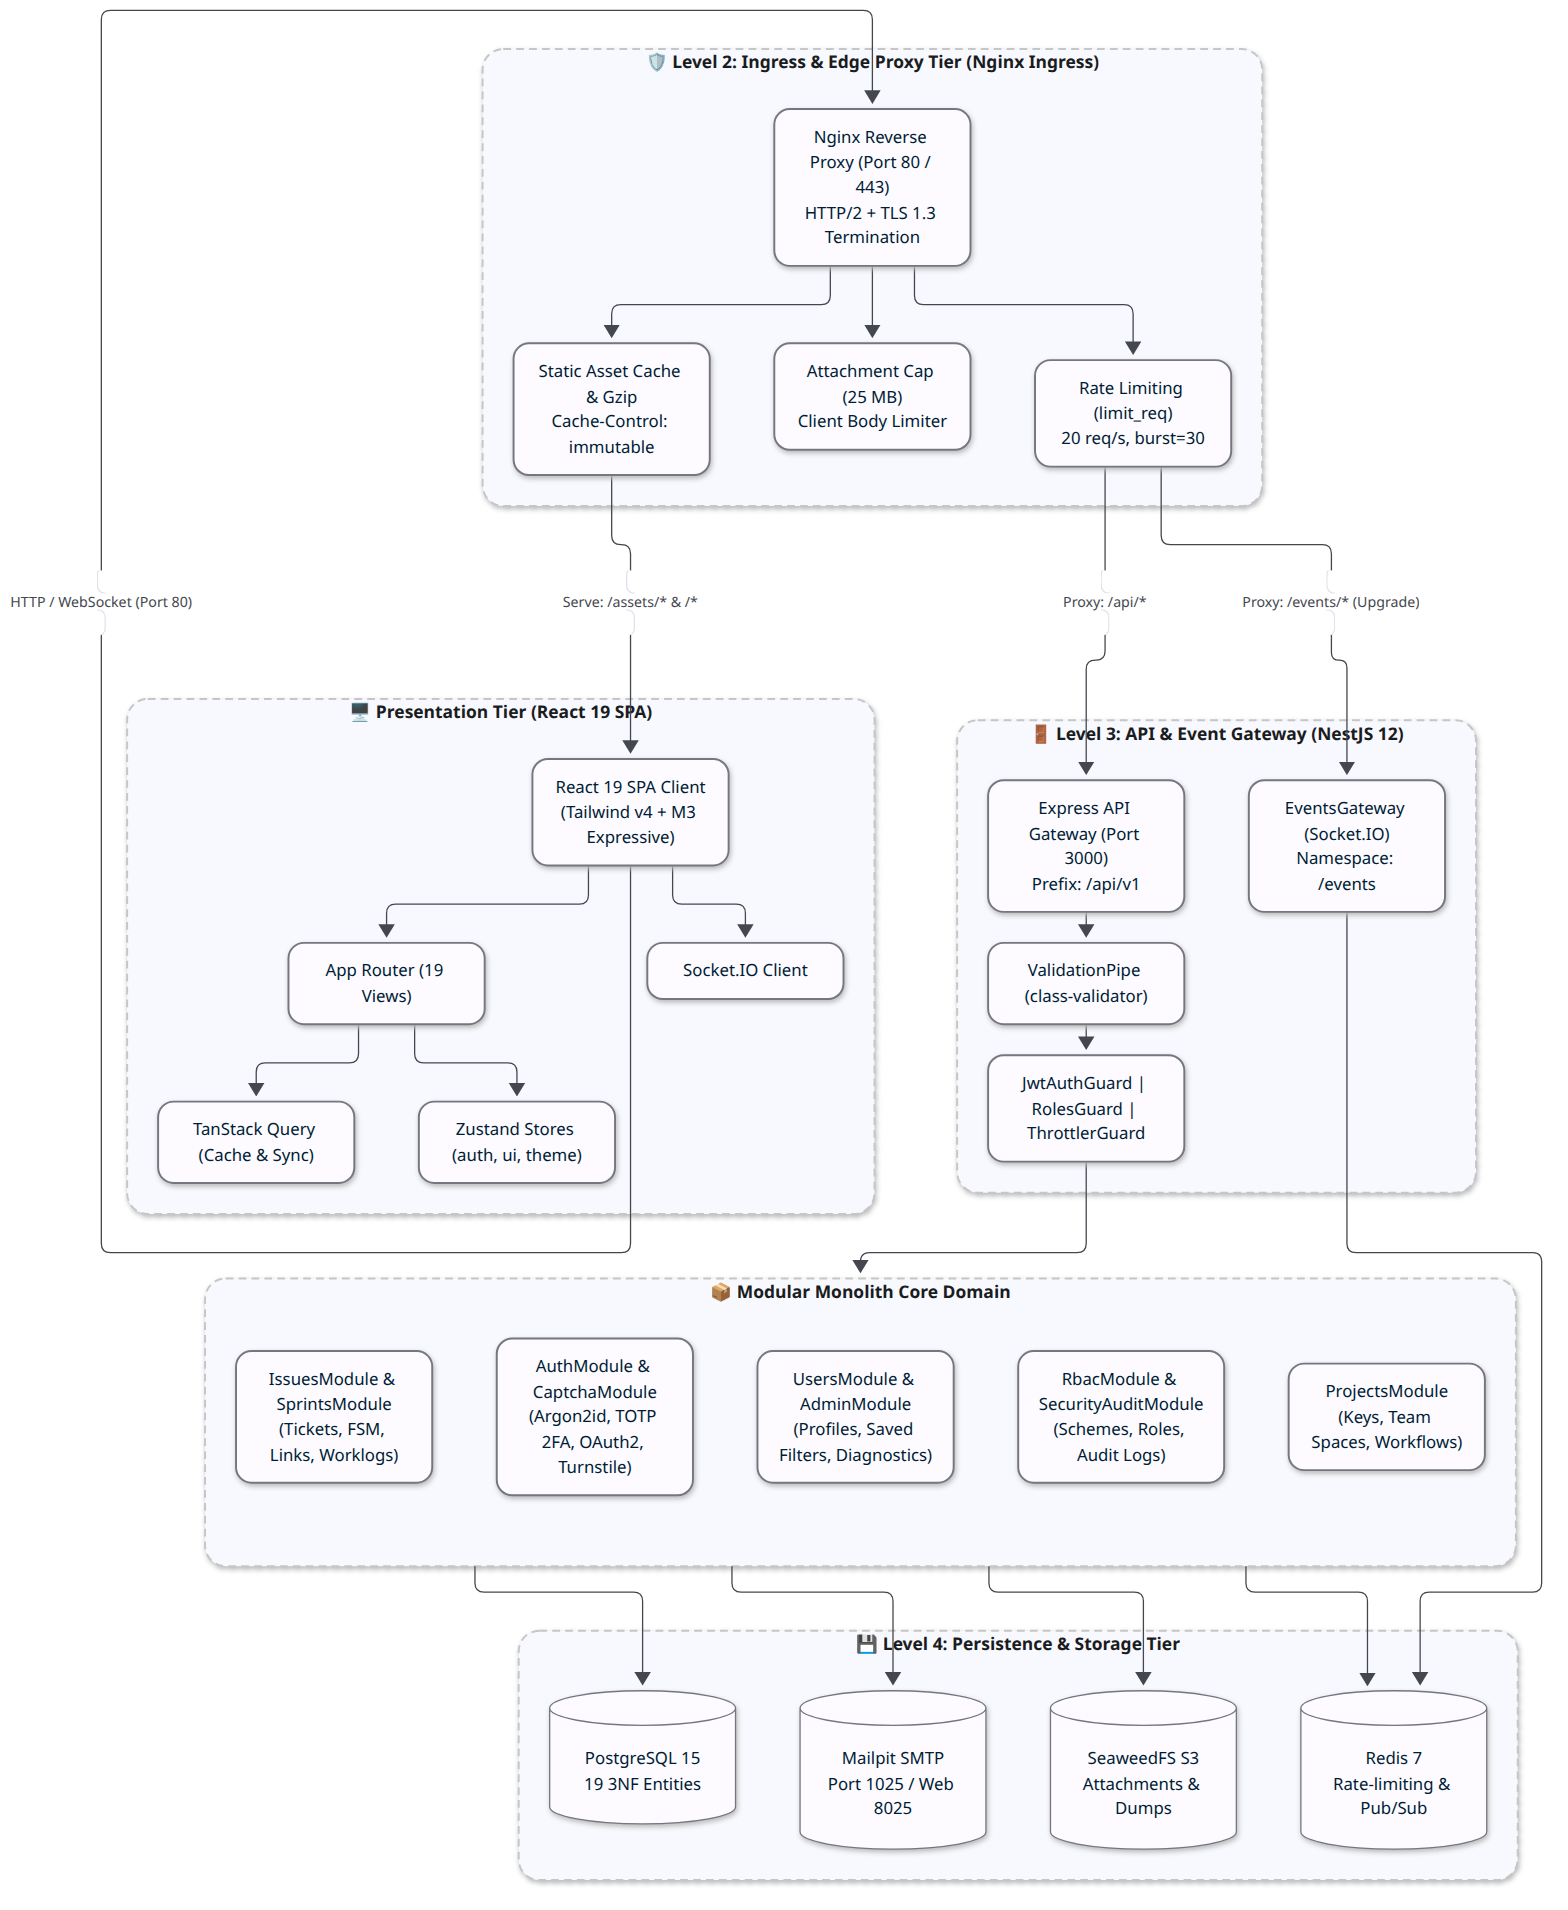
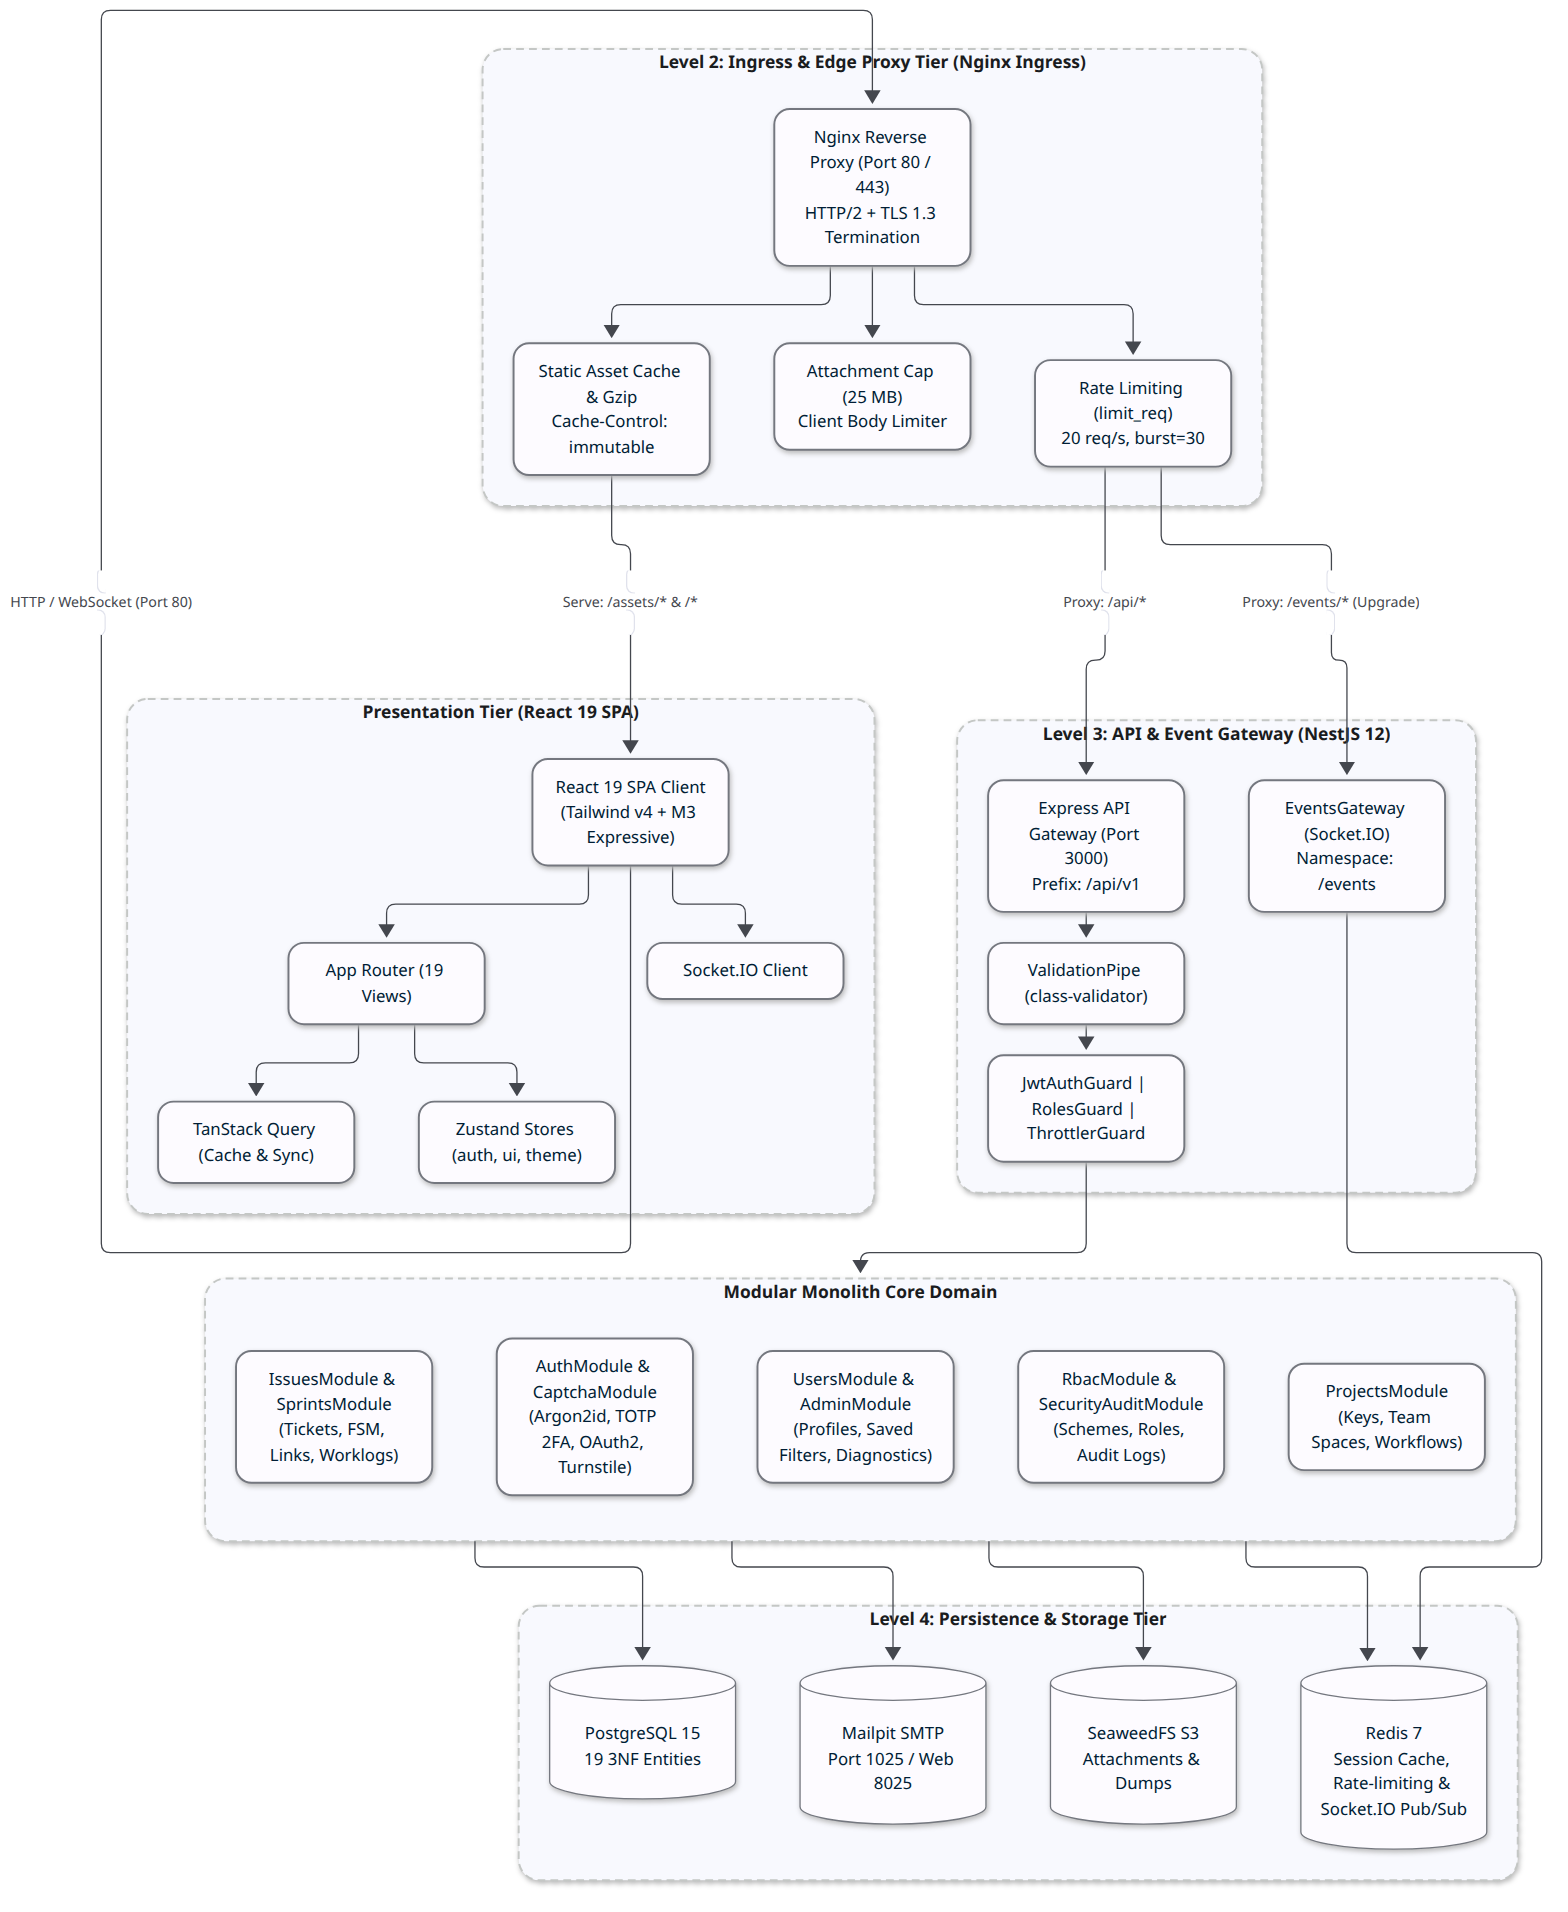
docs: synchronize system architecture and module specifications
Update technical documentation and architecture diagrams to accurately
reflect distributed Redis session caching, sliding-window rate limiting,
single-pass RBAC evaluation, fail-closed permission guard, multi-tenant
workspace isolation, and relational sprint tracking with scoped WebSockets.

diff --git a/documentation/backend/auth.md b/documentation/backend/auth.md
@@ -53,20 +53,26 @@ sequenceDiagram
 ## 2. Key Security Mechanisms
 
 ### Cryptography & Passwords
-* **Argon2id**: Passwords hashed using Argon2id with memory cost 65536 KiB, time cost 3, parallelism 4.
+* **Argon2id**: Passwords hashed using Argon2id with memory cost 19456 KiB (19 MiB), time cost 2, parallelism 1 (per RFC 9106 recommended profile to eliminate Node.js thread pool starvation under high concurrency).
 * **TOTP 2FA (RFC 6238)**: `otplib` generates base32 secret and pairs with authenticator apps (Google Authenticator, Authy).
 * **Cloudflare Turnstile**: Client tokens validated via Cloudflare siteverify endpoint in `CaptchaService`.
 
-### Session Management
+### Session Management & Distributed Redis Cache
 * **Dual-Token Cookie Model**:
-  * `access_token`: Short-lived (15 min) JWT containing `{ sub, email, role }`.
+  * `access_token`: Short-lived (15 min) JWT containing `{ sub, email, role, tokenVersion }`.
   * `refresh_token`: Long-lived (7 days) signed token.
   * Both cookies set with `httpOnly: true`, `SameSite: Lax`, and `secure` in production.
+* **Redis Session Cache (`user:session:${sub}`)**:
+  * `JwtStrategy` caches validated user profiles in Redis with 300s TTL, eliminating redundant PostgreSQL queries on every incoming HTTP/WS request.
+  * Checks `tokenVersion` against session state; purging the cache key and incrementing `tokenVersion` provides instantaneous global session revocation across all API replicas on logout, password change, deactivation, or role change.
 
-### Brute-Force & Lockout Protection
-* Tracks consecutive failed login attempts in `User.failedLoginAttempts`.
-* 5 failed attempts trigger a 15-minute account freeze (`User.lockoutUntil`).
+### Brute-Force & Distributed Rate Limiting
+* **Database Lockout Forensics**: Tracks consecutive failed login attempts in `User.failedLoginAttempts`. 5 failed attempts trigger a 15-minute account freeze (`User.lockoutUntil`).
+* **Redis Sliding-Window Rate Limiter**: `LoginRateLimiterService` enforces distributed IP + email throttling in Redis (`login:failed:${ip}:${email}`) with 15-minute sliding window, returning `429 Too Many Requests` without relying on single-node in-memory state.
 * Every attempt emits an audit record via `SecurityAuditService`.
+
+### Distributed OAuth Exchange Store
+* Single-use OAuth exchange codes are stored in Redis (`oauth:code:${code}`, 300s TTL) by `OAuthCodeStoreService`, enabling horizontally scaled OAuth redirects across multi-instance clusters.
 
 ---
 
@@ -77,18 +83,25 @@ sequenceDiagram
 | `POST` | `/register` | Register new user with password & CAPTCHA | Public |
 | `POST` | `/login` | Authenticate with email & password | Public |
 | `GET` | `/activate` | Verify single-use account activation token | Public |
-| `POST` | `/logout` | Invalidate cookies and end active session | User |
+| `POST` | `/logout` | Invalidate cookies, evict Redis session cache, and end session | User |
 | `POST` | `/forgot-password` | Request password reset token to email | Public |
 | `POST` | `/reset-password` | Reset password using verified token | Public |
 | `POST` | `/2fa/generate` | Generate TOTP secret and QR code URI | User |
 | `POST` | `/2fa/enable` | Confirm TOTP code and enable 2FA | User |
 | `POST` | `/2fa/verify` | Complete 2FA login challenge with temp token | Public |
 | `GET` | `/github` | Initiate GitHub OAuth2 authorization redirect | Public |
-| `GET` | `/github/callback` | OAuth2 callback exchanging code for session | Public |
+| `GET` | `/github/callback` | GitHub OAuth2 callback | Public |
+| `GET` | `/google` | Initiate Google OAuth2 authorization redirect | Public |
+| `GET` | `/google/callback` | Google OAuth2 callback | Public |
+| `POST` | `/oauth/exchange` | Exchange one-time Redis OAuth code for session cookies | Public |
 
 ---
 
 ## 4. Key Source Files
 * Controller: [`auth.controller.ts`](../../backend/src/modules/auth/auth.controller.ts)
 * Service: [`auth.service.ts`](../../backend/src/modules/auth/auth.service.ts)
+* JWT Strategy: [`jwt.strategy.ts`](../../backend/src/modules/auth/jwt.strategy.ts)
+* Redis Rate Limiter: [`login-rate-limiter.service.ts`](../../backend/src/modules/auth/login-rate-limiter.service.ts)
+* Redis OAuth Store: [`oauth-code-store.service.ts`](../../backend/src/modules/auth/oauth-code-store.service.ts)
+* Redis Module: [`redis.service.ts`](../../backend/src/modules/redis/redis.service.ts)
 * Captcha: [`captcha.service.ts`](../../backend/src/modules/captcha/captcha.service.ts)

diff --git a/README.md b/README.md
@@ -206,8 +206,12 @@ make prod-down
 * **Zero Secret Leakage:** Single-use tokens (`activationToken`, `resetPasswordToken`) are never returned in JSON HTTP responses; they are delivered exclusively via cryptographic email links.
 * **Fail-Closed CAPTCHA:** Cloudflare Turnstile token validation strictly rejects test bypass tokens in production.
 * **Enforced Activation Lock:** Unactivated accounts cannot log in under any circumstances (HTTP `401 Unauthorized`).
-* **Real OAuth2 OIDC Integration:** Native integration with GitHub and Google OAuth2 providers.
+* **Real OAuth2 OIDC Integration:** Native integration with GitHub and Google OAuth2 providers with distributed Redis code exchange.
+* **Distributed Redis Session Cache & Rate Limiting:** JWT user sessions cached in Redis with instant global revocation via `tokenVersion`; sliding-window rate limiting prevents distributed brute-force attacks.
 * **Brute-Force Throttling & Account Lockout:** 5 consecutive failed login attempts trigger an immediate 15-minute account lockout, audited in `login_audit_logs`.
 * **RFC 6238 TOTP Two-Factor Authentication:** Cryptographically verified time-based one-time passwords for enhanced account protection.
+* **Single-Pass RBAC Evaluation & Fail-Closed Guards:** Zero N+1 query cascades via single-pass SQL evaluation and Redis caching; fail-closed authorization eliminates ambient access vulnerabilities.
+* **Multi-Tenant Workspace Isolation:** Project queries strictly scoped via dynamic permission evaluation; project creation atomically provisions default schemes and lead administrator roles.
+* **Relational Sprints & Zero-Leak Real-Time WebSockets:** Relational `sprint_id` foreign keys with atomic rollovers; Socket.IO real-time events strictly scoped to authenticated, authorized rooms with zero global broadcast leaks.
 * **Forensic Security Audit Trail:** Live forensic audit log capturing IP address, User-Agent, failure reasons, and timestamps.
 * **Pure Dynamic RBAC & Root Administrator Immutability:** Legacy static role enums retired to pure `ADMIN` and `USER` system roles; coworker titles captured in `jobTitle`; root administrator accounts cannot be demoted, blocked, deleted, or evicted from the administrators group.

diff --git a/documentation/backend/projects.md b/documentation/backend/projects.md
@@ -8,6 +8,8 @@ The `ProjectsModule` manages team project spaces, project keys, lead assignments
 * **Project Key Uniqueness**: Enforces unique, uppercase prefix keys (e.g. `CORE`, `UI`, `INFRA`) used to namespace all issues (`CORE-101`).
 * **Leadership & Ownership**: Every project designates a Lead User responsible for issue assignments and project configuration.
 * **Security & Permissions**: Binds projects to a specific `PermissionScheme` and optional `IssueSecurityScheme`.
+* **Multi-Tenant Isolation**: Enforces tenant boundary isolation. Non-admin users can only retrieve projects they are explicitly permitted to view via `PermissionEvaluatorService.getAccessibleProjectIds(userId)`.
+* **Atomic Workspace Provisioning**: Creating a new project runs in an atomic database transaction. If no scheme is specified, it binds the default permission scheme and automatically enrolls the designated project lead in the `Administrators` project role (`ProjectRoleActor`), instantly synchronizing RBAC caches.
 
 ---
 
@@ -15,8 +17,8 @@ The `ProjectsModule` manages team project spaces, project keys, lead assignments
 
 | Method | Endpoint | Description | Auth Required |
 |---|---|---|---|
-| `GET` | `/` | List all projects accessible to the caller | JWT (`JwtAuthGuard`) |
-| `POST` | `/` | Create a new project space (Admin only) | Admin (`Roles('ADMIN')`) |
+| `GET` | `/` | List all projects accessible to caller (enforces multi-tenant isolation) | JWT (`JwtAuthGuard`) |
+| `POST` | `/` | Create project space, bind default scheme, and assign lead role (Admin only) | Admin (`Roles('ADMIN')`) |
 | `GET` | `/:id` | Get detailed project metadata and configuration | JWT (`JwtAuthGuard`) |
 | `PATCH` | `/:id` | Update project name, lead, or permission scheme | Admin / Project Lead |
 | `DELETE` | `/:id` | Delete or archive project | Admin (`Roles('ADMIN')`) |

diff --git a/documentation/backend/rbac.md b/documentation/backend/rbac.md
@@ -69,6 +69,18 @@ Layer 2: Project-Scoped Roles (ProjectRoleActor)
   * The Project Lead, or
   * The Current Assignee.
 
+### Single-Pass RBAC Evaluation & Redis Caching
+* **Single-Pass SQL Optimization**: `PermissionEvaluatorService.getEffectivePermissions(userId, projectId)` queries all effective permissions in a single SQL query joining `projects`, `permission_schemes`, `permission_grants`, `project_role_actors`, and `user_group_memberships`. This completely eliminates the previous 100+ sequential N+1 query loop.
+* **Redis Effective Permissions Cache (`rbac:user:${userId}:project:${projectId}`)**:
+  * Evaluated permissions are cached with a 300s TTL.
+  * Invalidation hooks automatically purge affected user/project keys when project role actors, user groups, or permission schemes are updated.
+* **Multi-Tenant Project Isolation**: `PermissionEvaluatorService.getAccessibleProjectIds(userId)` calculates all project IDs a user is authorized to browse, enforcing strict tenant separation across project listing endpoints.
+
+### Fail-Closed Project Permission Guard
+* `ProjectPermissionGuard` enforces fail-closed authorization.
+* If a project ID cannot be resolved from route parameters (`:projectId`, `:id`), query string (`?projectId=`), request body, or ticket lookup, the guard immediately throws `ForbiddenException('Project context required for permission verification')`.
+* This prevents any unauthenticated or ambient privilege escalation bypasses.
+
 ### Issue Security Schemes
 * Protects high-confidentiality issues (e.g. zero-day security reports, internal HR tickets).
 * Issues assigned an `IssueSecurityLevel` are hidden from users unless they match an `IssueSecurityGrant`.

diff --git a/documentation/architecture/system-overview.md b/documentation/architecture/system-overview.md
@@ -85,7 +85,7 @@ graph TB
 | **Backend API** | NestJS 12 (TypeScript) | Node.js 24 LTS / Port `3000` | Modular monolith architecture (`/api/v1`), Swagger (`/api/docs`), JWT cookies, input validation. |
 | **Frontend SPA** | React 19 + Vite 8 | Port `5173` | Single-page application, Tailwind CSS v4, Material Design 3 Expressive theme, TanStack Query. |
 | **Relational Database** | PostgreSQL 15 | Port `5432` | Relational 3NF persistence managed via TypeORM with 19 domain entities. |
-| **Cache & Pub/Sub** | Redis 7 | Port `6379` | Throttling/rate-limit tracking, session state, and WebSocket distribution. |
+| **Cache & Pub/Sub** | Redis 7 | Port `6379` | Fast session caching (`user:session:*`), RBAC permissions caching, sliding-window rate limiting, and horizontal Socket.IO Redis adapter distribution. |
 | **Object Storage** | SeaweedFS (S3 API) | S3 Port `8333` / Master `9333` | S3-compatible blob storage for bug attachments, crash dumps, and avatars. |
 | **Mail Testing** | Mailpit | SMTP `1025` / Web UI `8025` | Local zero-dependency mail server capturing activation links and password reset tokens. |
 | **Real-time Gateway** | Socket.IO | WSS via Port `3000` / `/events`| Real-time push events for Kanban board updates and issue status changes. |
